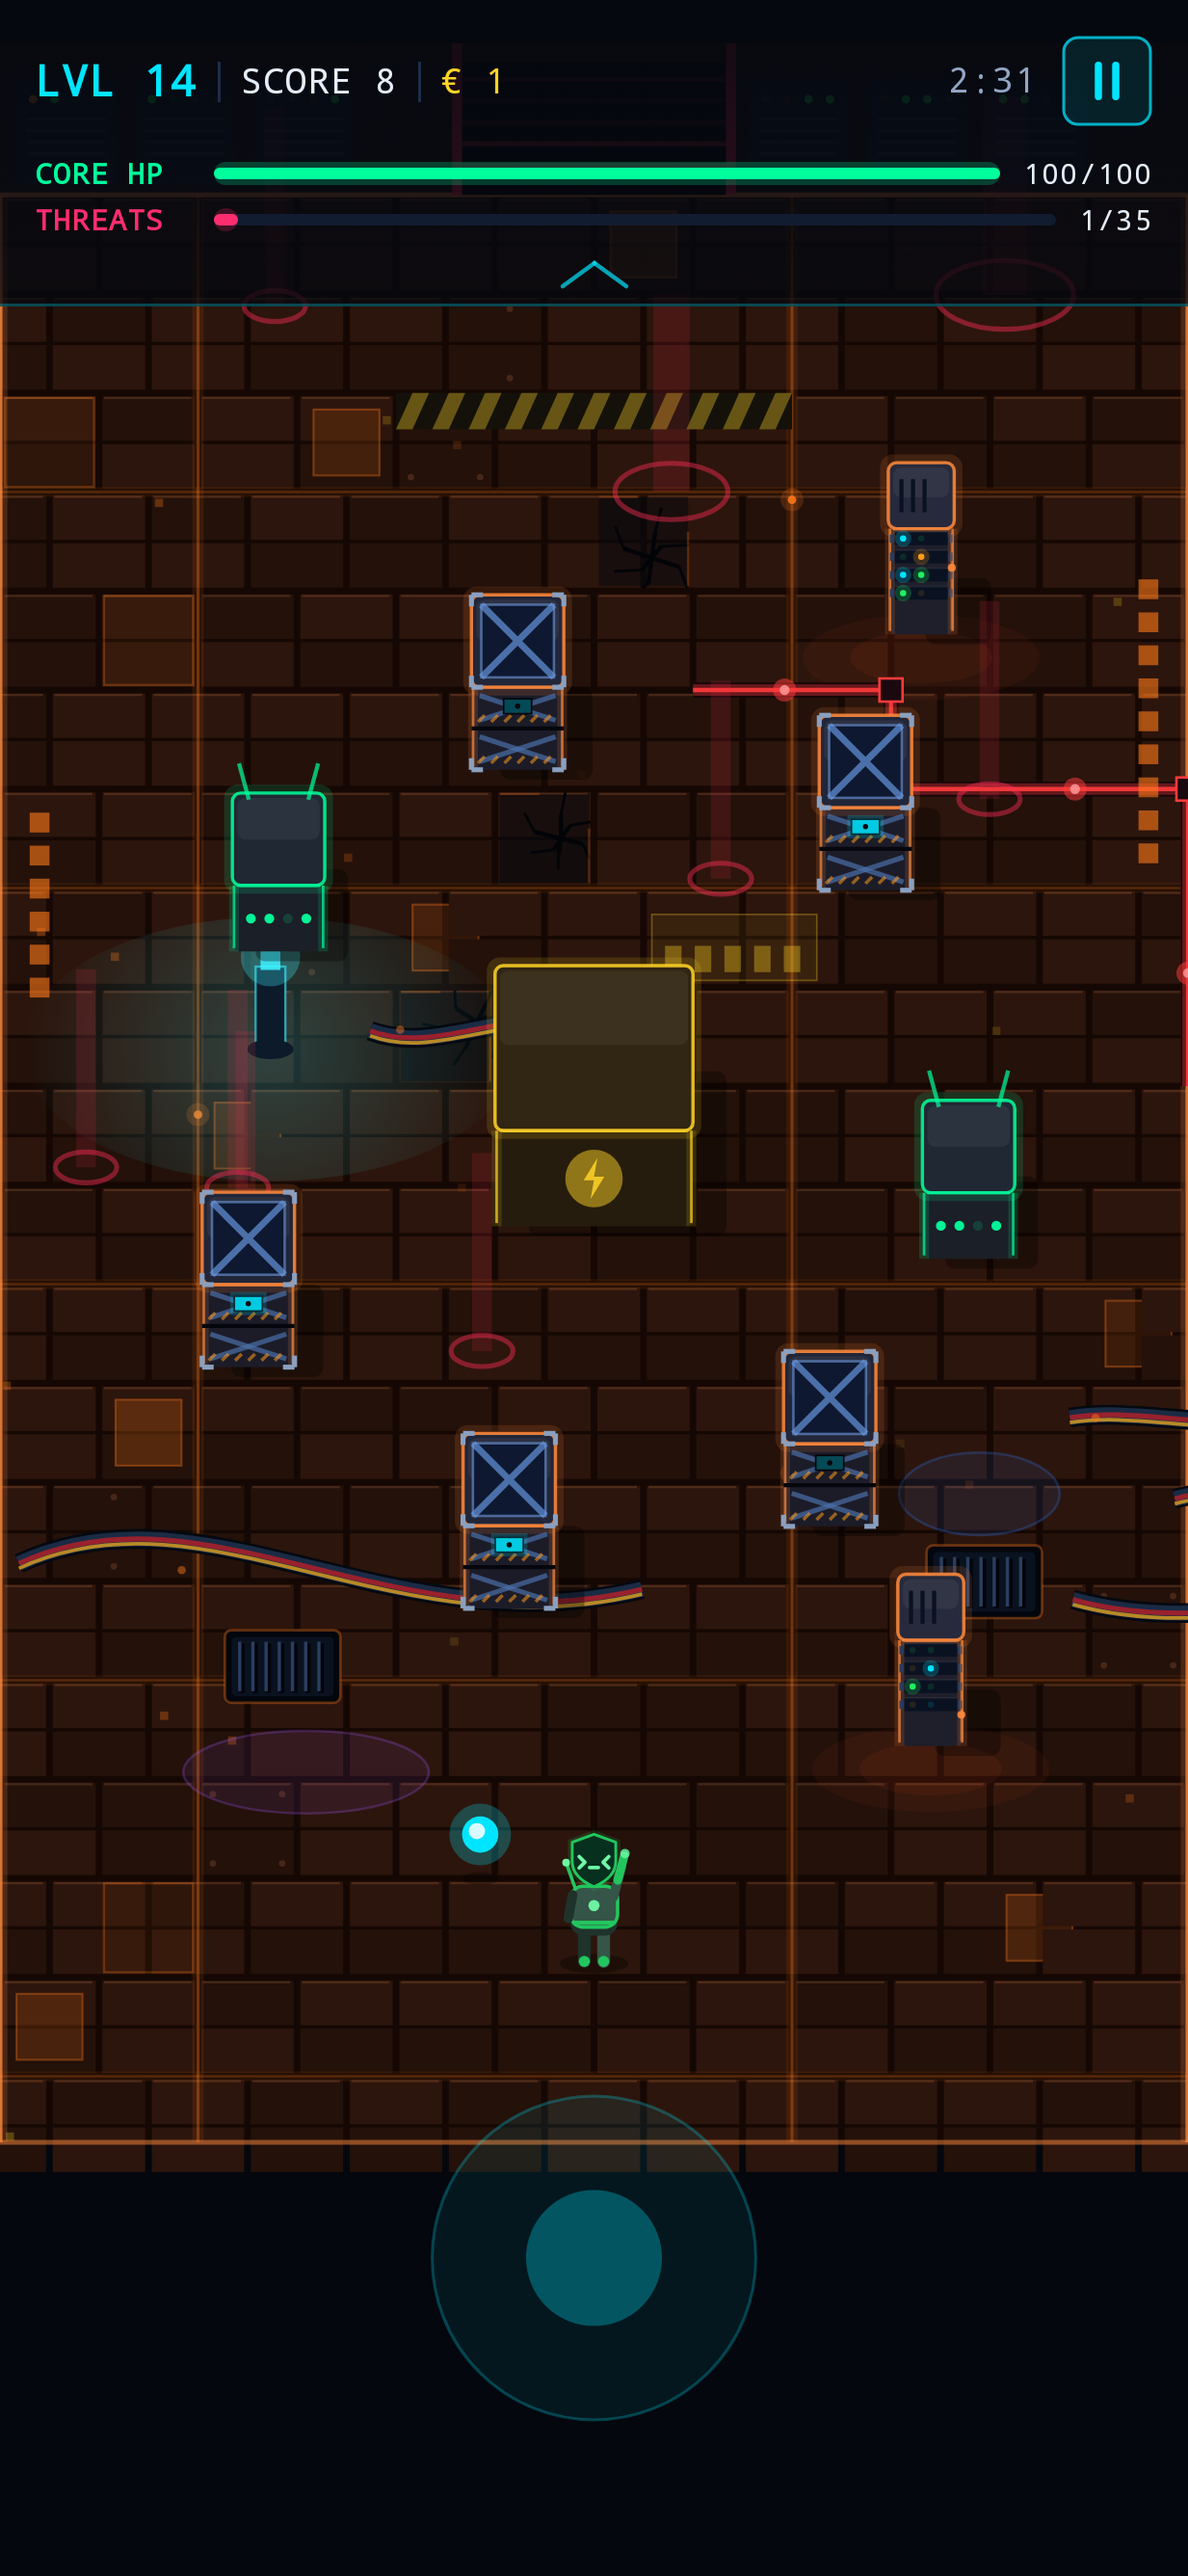
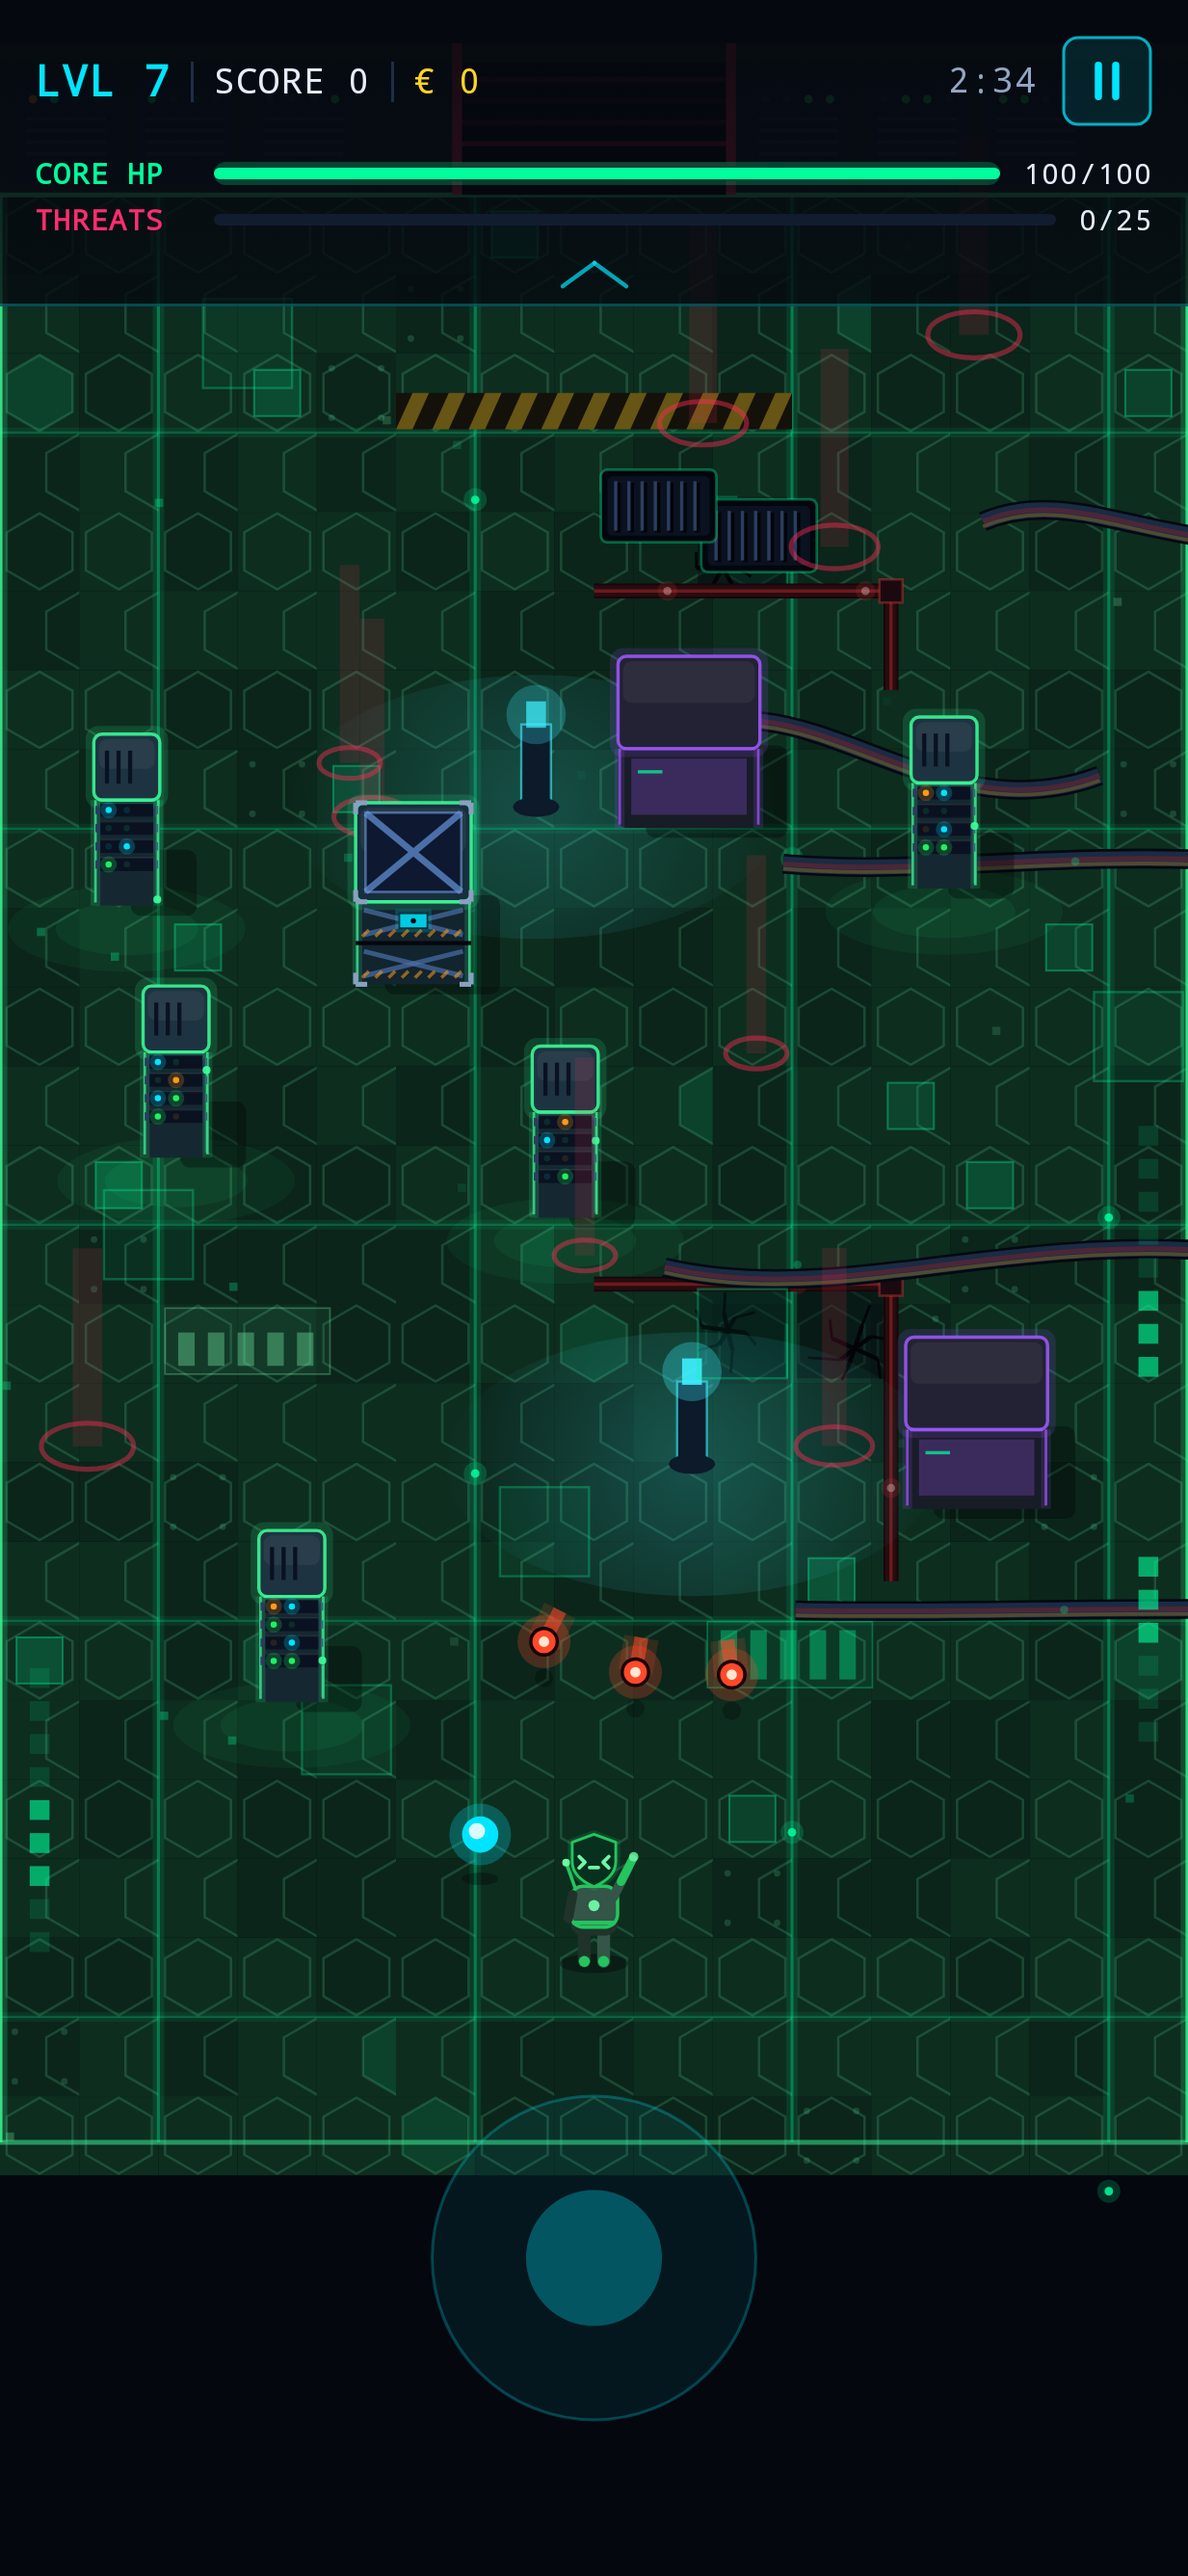
Dim floor conduits and cable bundles (v0.12.1)
Claude-Session: https://claude.ai/code/session_01J4fYSi9rfQR62SLnfyrDCN

diff --git a/app/src/main/java/com/cyberoperative/game/ui/game/ArenaRenderer.kt b/app/src/main/java/com/cyberoperative/game/ui/game/ArenaRenderer.kt
@@ -450,22 +450,23 @@ class ArenaRenderer {
                 }
                 DecorKind.CONDUIT -> {
                     // 04 Power conduit: red energy lines along tile seams with an L bend, pulses running along.
-                    val red = Color(0xFFFF3B3B)
+                    // Owner, 2026-10-10: "too bright to be part of the floor" — kept dim, recessed.
+                    val red = Color(0xFFB83030)
                     val corner = Offset(d.x + d.w, d.y)
                     val end = Offset(d.x + d.w, d.y + d.h)
                     for ((a, b) in listOf(Offset(d.x, d.y) to corner, corner to end)) {
                         drawLine(Color(0xFF14060A), a, b, 9f)
-                        drawLine(red.copy(alpha = 0.35f), a, b, 7f)
-                        drawLine(red.copy(alpha = 0.9f), a, b, 2.5f)
+                        drawLine(red.copy(alpha = 0.12f), a, b, 7f)
+                        drawLine(red.copy(alpha = 0.45f), a, b, 2f)
                     }
                     drawRect(Color(0xFF1A0A10), Offset(corner.x - 7f, corner.y - 7f), Size(14f, 14f))
-                    drawRect(red, Offset(corner.x - 7f, corner.y - 7f), Size(14f, 14f), style = Stroke(1.5f))
+                    drawRect(red.copy(alpha = 0.5f), Offset(corner.x - 7f, corner.y - 7f), Size(14f, 14f), style = Stroke(1.5f))
                     val total = d.w + d.h
                     for (k in 0 until 2) {
                         val q = ((time * 120f + k * total / 2f + (d.seed and 0xFF)) % total)
                         val pt = if (q < d.w) Offset(d.x + q, d.y) else Offset(corner.x, d.y + (q - d.w))
-                        drawCircle(Color.White.copy(alpha = 0.8f), 3f, pt)
-                        drawCircle(red.copy(alpha = 0.5f), 7f, pt)
+                        drawCircle(Color.White.copy(alpha = 0.35f), 2.5f, pt)
+                        drawCircle(red.copy(alpha = 0.2f), 6f, pt)
                     }
                 }
                 DecorKind.SPARK_PANEL -> {
@@ -520,12 +521,13 @@ class ArenaRenderer {
                     // 10 Cable run: a thick bundle — dark sheath with red and yellow cores.
                     drawPath(shapePath, Color(0xFF050910), style = Stroke(12f))
                     drawPath(shapePath, Color(0xFF1A2B44), style = Stroke(9f))
-                    drawPath(shapePath, Color(0xFFB0202A).copy(alpha = 0.85f), style = Stroke(3f))
+                    // Owner, 2026-10-10: dulled so the cores read as floor, not as a hazard line.
+                    drawPath(shapePath, Color(0xFF8A2028).copy(alpha = 0.45f), style = Stroke(3f))
                     shapePath.translate(Offset(0f, 3f))
-                    drawPath(shapePath, Color(0xFFE0A020).copy(alpha = 0.8f), style = Stroke(2.2f))
+                    drawPath(shapePath, Color(0xFFA07818).copy(alpha = 0.4f), style = Stroke(2.2f))
                     shapePath.translate(Offset(0f, -3f))
                     val f = ((time * 0.4f + (d.seed and 0xFF) / 255f) % 1f)
-                    drawCircle(themeAccent.copy(alpha = 0.45f), 2.5f, Offset(d.x + d.w * f, d.y + wob * (0.3f * f)))
+                    drawCircle(themeAccent.copy(alpha = 0.25f), 2.5f, Offset(d.x + d.w * f, d.y + wob * (0.3f * f)))
                 }
                 DecorKind.VENT -> {
                     // 03 Vent grate tile: a recessed grate with depth, slats lit from one side.

diff --git a/CHANGELOG.md b/CHANGELOG.md
@@ -1,5 +1,11 @@
 # Changelog
 
+## 0.12.1 (versionCode 43) — 2026-10-10 · Dimmer floor lines
+### Changed
+- **Floor power conduits and cable bundles are toned down** (owner: "too bright to be part of the
+  floor"). Conduits are a darker red with a faint glow and softer pulses. Cable cores are muted red
+  and yellow. They now read as part of the floor instead of as hazard lines.
+
 ## 0.12.0 (versionCode 42) — 2026-10-10 · Classic boss bodies + World Kit finish
 ### Added
 - **Every classic boss has its own body** (Stage F1, built autonomously at the owner's request). The

diff --git a/DEVELOPMENT_STATE.md b/DEVELOPMENT_STATE.md
@@ -6,7 +6,7 @@ _Read this first in every new session, then README, GAME_DESIGN, BACKLOG, CHANGE
 
 | | |
 |---|---|
-| Version | 0.12.0 (versionCode 42) |
+| Version | 0.12.1 (versionCode 43) |
 | Milestone | M1 vertical slice ✅ · M2 first boss & systems ✅ (pending device playtest) |
 | Last completed | 0.9.5 fullscreen HUD redesign (ui/game/GameHud.kt, buff chips in UpgradeBar.kt) |
 | Current task | Waiting on owner: body design (CO-094) and Power-Up Board picks (CO-090) |

diff --git a/docs/BOSS_EXPANSION_LOG.md b/docs/BOSS_EXPANSION_LOG.md
@@ -483,3 +483,5 @@ CONTROLLER / AREA CONTROL / HUNTER on these four).
     harness now covers the classics.
   - World Kit 05/07 done; `docs/screenshots/world_kit_crates.png`.
   - Full suite green.
+- 2026-10-10 — v0.12.1 (43): owner flagged the conduit and cable lines as "too bright to be part of
+  the floor". Dulled the CONDUIT (dark red, glow 0.12, core 0.45) and CABLE cores (0.45/0.4).
